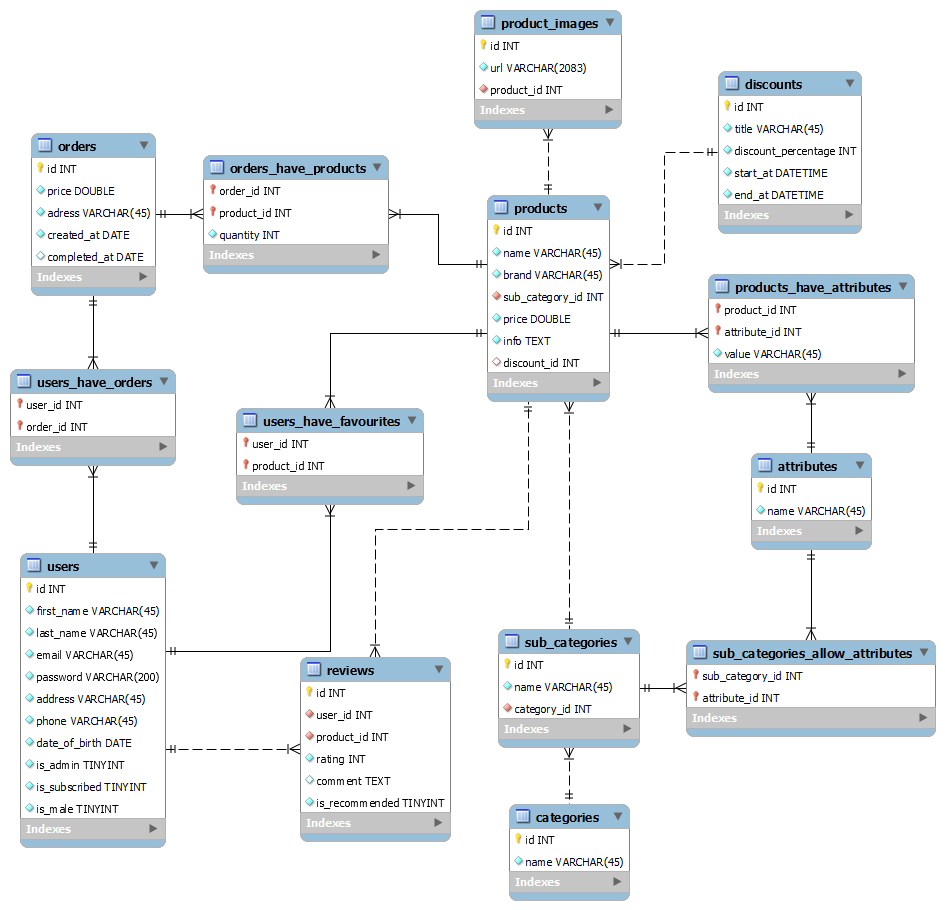
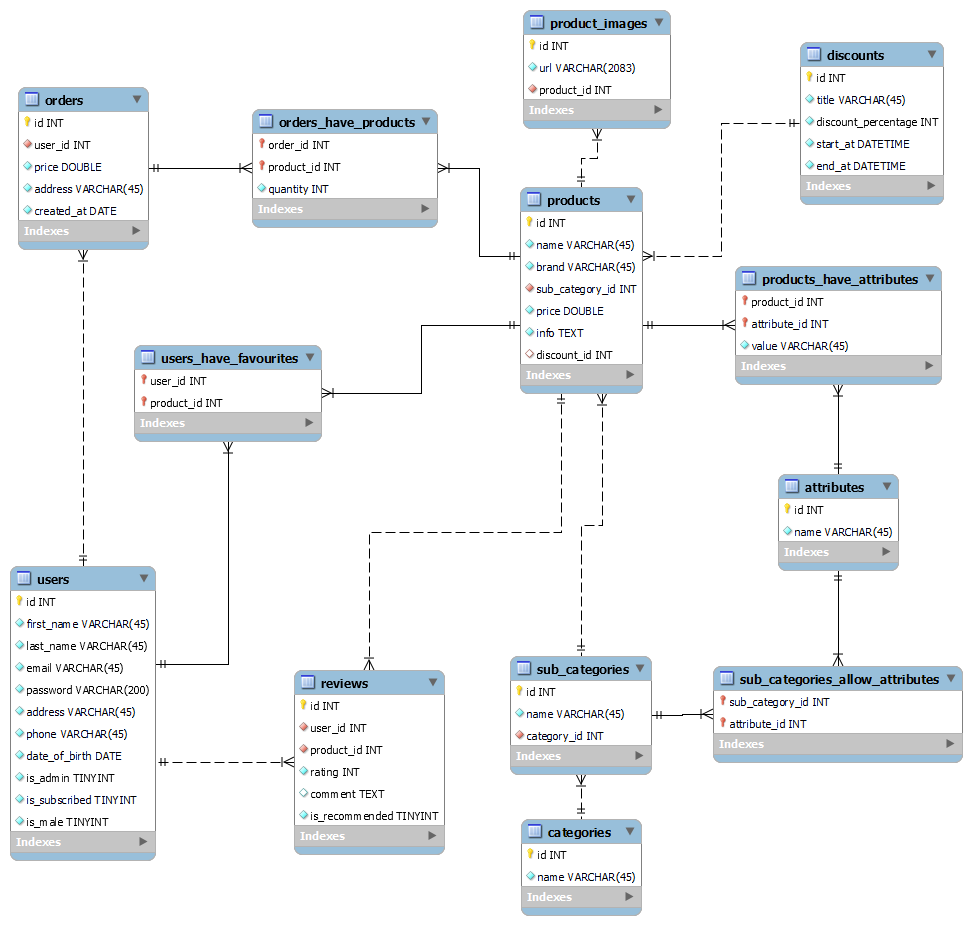
Changes to Order class and DB diagram. Refactoring. Added add order and relation to products and user, get all orders for user.

diff --git a/TechnoMarket/src/main/java/com/technomarket/controller/UserController.java b/TechnoMarket/src/main/java/com/technomarket/controller/UserController.java
@@ -2,6 +2,7 @@ package com.technomarket.controller;
 
 import com.technomarket.exceptions.AuthorizationException;
 import com.technomarket.model.dtos.*;
+import com.technomarket.model.dtos.order.OrderDTO;
 import com.technomarket.model.dtos.product.ProductResponseDTO;
 import com.technomarket.model.dtos.user.*;
 import com.technomarket.model.pojos.User;
@@ -30,9 +31,6 @@ public class UserController {
 
     @Autowired
     private UserService userService;
-
-    @Autowired
-    private ModelMapper modelMapper;
 
 
     @PostMapping("/user/login")
@@ -82,18 +80,40 @@ public class UserController {
         UserResponseDTO responseDTO = userService.edit(userID, dto);
         return new ResponseEntity<>(responseDTO, HttpStatus.ACCEPTED);
     }
-/*
 
-    @SneakyThrows
-    @GetMapping("/users/favourites")
-    public List<ProductResponseDTO> getFavouriteProducts(HttpServletRequest request) {
+    @PostMapping("/user/favourites/{id}")
+    public ResponseEntity<UserResponseDTO> addFavouriteProduct(@PathVariable int id, HttpServletRequest request){
         validateLogin(request);
         HttpSession session = request.getSession();
         int userID = (int) session.getAttribute(USER_ID);
-        return userService.getFavouriteProducts(userID);
+
+        UserResponseDTO responseDTOS = userService.addFavourite(id,userID);
+        return new ResponseEntity<>(responseDTOS,HttpStatus.OK);
+    }
+/*
+
+    @SneakyThrows
+    @GetMapping("/user/favourites")
+    public ResponseEntity<List<ProductResponseDTO>> getFavouriteProducts(HttpServletRequest request) {
+        validateLogin(request);
+        HttpSession session = request.getSession();
+        int userID = (int) session.getAttribute(USER_ID);
+        List<ProductResponseDTO> responseDTOS = userService.getFavouriteProducts(userID);
+        return new ResponseEntity<>(responseDTOS,HttpStatus.OK);
     }
 
 */
+
+    @GetMapping("/user/orders")
+    public ResponseEntity<List<OrderDTO>> getOrders(HttpServletRequest request) {
+        UserController.validateLogin(request);
+        HttpSession session = request.getSession();
+        int userId = (int) session.getAttribute(UserController.USER_ID);
+
+        List<OrderDTO> orderDTOList = userService.getAllOrdersFromUser(userId);
+        return new ResponseEntity<>(orderDTOList, HttpStatus.OK);
+    }
+
     @PutMapping("/user/info/changepassword")
     public ResponseEntity<UserResponseDTO> changePassword(@Valid @RequestBody UserChangePasswordDTO dto, HttpServletRequest request) {
         validateLogin(request);

diff --git a/TechnoMarket/src/main/java/com/technomarket/model/services/UserService.java b/TechnoMarket/src/main/java/com/technomarket/model/services/UserService.java
@@ -172,29 +172,16 @@ public class UserService {
         });
         return user.isAdmin();
     }
-/*
 
-    public List<OrderDTO> getAllUserOrders(User user) {
-
-
-        List<Order> orders = orderRepository.findAllByUserId(user.getId());
-        if (orders.isEmpty()) {
-            throw new NotFoundException("No orders found!");
-        }
-        List<OrderDTO> orderDtoList = new ArrayList<>();
-        for (Order order : orders) {
-            OrderDTO orderDto = new OrderDTO(order.getId(),order.getPrice(),order.getCreatedAt());
-            orderDtoList.add(orderDto);
-        }
-        return orderDtoList;
-    }
-
-*/
 /*
 
     public List<ProductResponseDTO> getFavouriteProducts(int userId) {
+        if(!userRepository.existsById(userId)){
+            throw new BadRequestException("No such user exists");
+        }
 
-        List<Product> products = productRepository.findUserFavouriteProducts(userId);
+        List<Product> products = userRepository.findAllByIdOrderByFavoriteProducts(userId);
+        //List<Product> products = productRepository.findUserFavouriteProducts(userId);
         if (products.isEmpty()) {
             throw new NotFoundException("No favourite products found!");
         }
@@ -207,5 +194,28 @@ public class UserService {
     }
 
 */
- 
+    public UserResponseDTO addFavourite(int productId, int userID) {
+        if(!productRepository.existsById(productId)){
+            throw new BadRequestException("Product with this id doesn't exist");
+        }
+        Product product = productRepository.getById(productId);
+        User user = userRepository.getById(userID);
+        user.getFavoriteProducts().add(product);
+        userRepository.save(user);
+
+        return mapper.map(user,UserResponseDTO.class);
+    }
+
+    public List<OrderDTO> getAllOrdersFromUser(int userId) {
+        List<Order> orders = orderRepository.findAllByUser_Id(userId);
+        if (orders.isEmpty()) {
+            throw new NotFoundException("No orders found!");
+        }
+        List<OrderDTO> orderDtoList = new ArrayList<>();
+        for (Order order : orders) {
+            OrderDTO orderDto = new OrderDTO(order.getId(),order.getPrice(),order.getCreatedAt());
+            orderDtoList.add(orderDto);
+        }
+        return orderDtoList;
+    }
 }

diff --git a/TechnoMarket/src/main/java/com/technomarket/model/services/OrderService.java b/TechnoMarket/src/main/java/com/technomarket/model/services/OrderService.java
@@ -48,6 +48,7 @@ public class OrderService {
         return orderRepository.getById(id);
     }
 
+
     @Transactional
     public MessageDTO createOrder(OrderCreateDTO dto, int userId) {
         if (!userRepository.existsById(userId)) {
@@ -65,6 +66,7 @@ public class OrderService {
         User user = userRepository.getById(userId);
 
         Order order = new Order();
+        order.setUser(user);
         order.setPrice(totalPrice);
         order.setAddress(user.getAddress());
         order.setCreatedAt(LocalDate.now());
@@ -91,6 +93,8 @@ public class OrderService {
             orderProductRepository.save(orderProduct);
         }
         orderRepository.save(order);
+        user.getOrderList().add(order);
+        userRepository.save(user);
         return new MessageDTO("Order created", LocalDateTime.now());
     }
 
@@ -104,7 +108,7 @@ public class OrderService {
             if (product.getDiscount() != null) {
                 price = price - (price * (product.getDiscount().getDiscountPercentage() / 100.0));
             }
-            totalPrice+=price*quantity;
+            totalPrice += price * quantity;
         }
         return totalPrice;
     }

diff --git a/TechnoMarket/src/main/java/com/technomarket/model/pojos/User.java b/TechnoMarket/src/main/java/com/technomarket/model/pojos/User.java
@@ -42,15 +42,13 @@ public class User {
     private boolean isMale;
 
 
-    @ManyToMany(fetch = FetchType.LAZY,cascade = CascadeType.ALL)
-    @JoinTable(name = "users_have_orders",joinColumns = {@JoinColumn(name="user_id")},
-    inverseJoinColumns = {@JoinColumn(name="order_id")})
+    @OneToMany(mappedBy = "user")
     private List<Order> orderList=new ArrayList<>();
 
     @ManyToMany(fetch = FetchType.LAZY,cascade = CascadeType.ALL)
-    @JoinTable(name = "users_have_favorites",joinColumns = {@JoinColumn(name="user_id")},
+    @JoinTable(name = "users_have_favourites",joinColumns = {@JoinColumn(name="user_id")},
             inverseJoinColumns = {@JoinColumn(name="product_id")})
-    private List<Product> productList=new ArrayList<>();
+    private List<Product> favoriteProducts =new ArrayList<>();
 
 
 }

diff --git a/TechnoMarket/src/main/java/com/technomarket/controller/OrderController.java b/TechnoMarket/src/main/java/com/technomarket/controller/OrderController.java
@@ -23,17 +23,6 @@ public class OrderController {
     private OrderService orderService;
 
 
-/*    @GetMapping("/user/order")
-    public ResponseEntity<List<OrderDTO>> getOrders(HttpServletRequest request) {
-        UserController.validateLogin(request);
-        HttpSession session = request.getSession();
-        int userId = (int) session.getAttribute(UserController.USER_ID);
-        List<OrderDTO> orderDTOList = orderService.getAllOrdersFromUser(userId);
-        return new ResponseEntity<>(orderDTOList, HttpStatus.OK);
-
-    }
-    */
-
     @PostMapping("/order")
     public ResponseEntity<MessageDTO> createOrderByListOfProducts(@RequestBody OrderCreateDTO dto, HttpServletRequest request) {
         UserController.validateLogin(request);

diff --git a/TechnoMarket/src/main/java/com/technomarket/model/pojos/Product.java b/TechnoMarket/src/main/java/com/technomarket/model/pojos/Product.java
@@ -3,7 +3,6 @@ package com.technomarket.model.pojos;
 import com.technomarket.model.relationentity.OrderProduct;
 import com.technomarket.model.relationentity.ProductAttribute;
 import lombok.Getter;
-import lombok.NoArgsConstructor;
 import lombok.Setter;
 
 import javax.persistence.*;
@@ -41,7 +40,7 @@ public class Product {
     @OneToMany(mappedBy = "product")
     Set<ProductAttribute> productAttribute;
 
-    @ManyToMany(fetch = FetchType.LAZY, cascade = CascadeType.ALL, mappedBy = "productList")
+    @ManyToMany(fetch = FetchType.LAZY, cascade = CascadeType.ALL, mappedBy = "favoriteProducts")
     private List<User> userList;
 
     @OneToMany(mappedBy = "product")

diff --git a/TechnoMarket/src/main/java/com/technomarket/model/pojos/Order.java b/TechnoMarket/src/main/java/com/technomarket/model/pojos/Order.java
@@ -28,16 +28,15 @@ public class Order {
     private String address;
     @Column
     private LocalDate createdAt;
-    @Column
-    private LocalDate completedAt;
 
-    @ManyToMany(fetch = FetchType.LAZY,cascade = CascadeType.ALL,mappedBy ="orderList")
-    private List<User> userList=new ArrayList<>();
+    @ManyToOne()
+    @JoinColumn(name = "user_id")
+    private User user;
 
     @OneToMany(mappedBy = "order")
     private Set<OrderProduct> orderProducts;
 
-    public Order(){
+    public Order() {
         this.orderProducts = new HashSet<>();
     }
 

diff --git a/TechnoMarket/src/main/java/com/technomarket/model/repositories/UserRepository.java b/TechnoMarket/src/main/java/com/technomarket/model/repositories/UserRepository.java
@@ -1,12 +1,16 @@
 package com.technomarket.model.repositories;
 
+import com.technomarket.model.pojos.Product;
 import com.technomarket.model.pojos.User;
 import org.springframework.data.jpa.repository.JpaRepository;
 import org.springframework.stereotype.Repository;
+
+import java.util.List;
 
 
 @Repository
 public interface UserRepository extends JpaRepository<User, Integer> {
     boolean existsByEmail(String email);
     User findByEmail(String email);
+
 }

diff --git a/TechnoMarket/src/main/java/com/technomarket/controller/AttributeController.java b/TechnoMarket/src/main/java/com/technomarket/controller/AttributeController.java
@@ -25,8 +25,6 @@ import java.util.List;
 @RestController
 public class AttributeController {
 
-    public static final String LOGGED = "logged";
-    public static final String LOGGED_FROM = "logged_from";
     public static final String USER_ID = "user_id";
 
     @Autowired

diff --git a/TechnoMarket/src/main/java/com/technomarket/controller/SubcategoryController.java b/TechnoMarket/src/main/java/com/technomarket/controller/SubcategoryController.java
@@ -26,8 +26,6 @@ import java.util.List;
 @Validated
 public class SubcategoryController {
 
-    public static final String LOGGED = "logged";
-    public static final String LOGGED_FROM = "logged_from";
     public static final String USER_ID = "user_id";
 
     @Autowired

diff --git a/TechnoMarket/src/main/java/com/technomarket/model/repositories/ProductRepository.java b/TechnoMarket/src/main/java/com/technomarket/model/repositories/ProductRepository.java
@@ -10,8 +10,5 @@ import java.util.List;
 @Repository
 public interface ProductRepository extends JpaRepository<Product, Integer> {
 
-
     boolean existsByName(String name);
-
-    //List<Product> findUserFavouriteProducts(int id);
 }

diff --git a/TechnoMarket/src/main/java/com/technomarket/model/repositories/OrderRepository.java b/TechnoMarket/src/main/java/com/technomarket/model/repositories/OrderRepository.java
@@ -9,7 +9,5 @@ import java.util.List;
 
 @Repository
 public interface OrderRepository extends JpaRepository<Order, Integer> {
-
-    //List<Order> findAllByUserId(int userId);
-
+    List<Order> findAllByUser_Id(int userId);
 }
